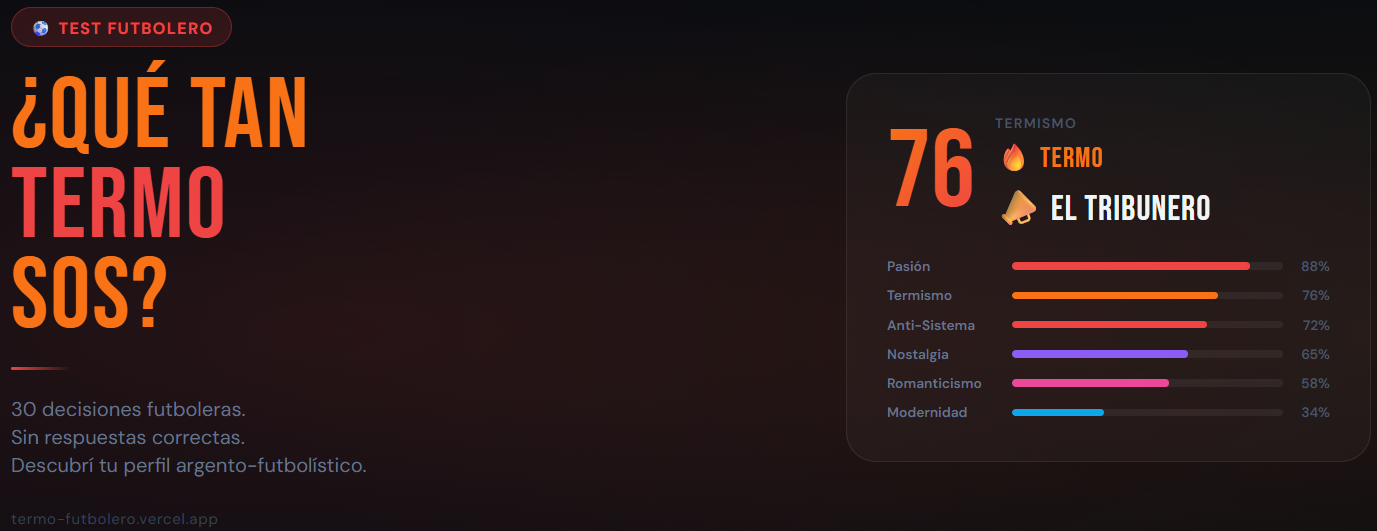
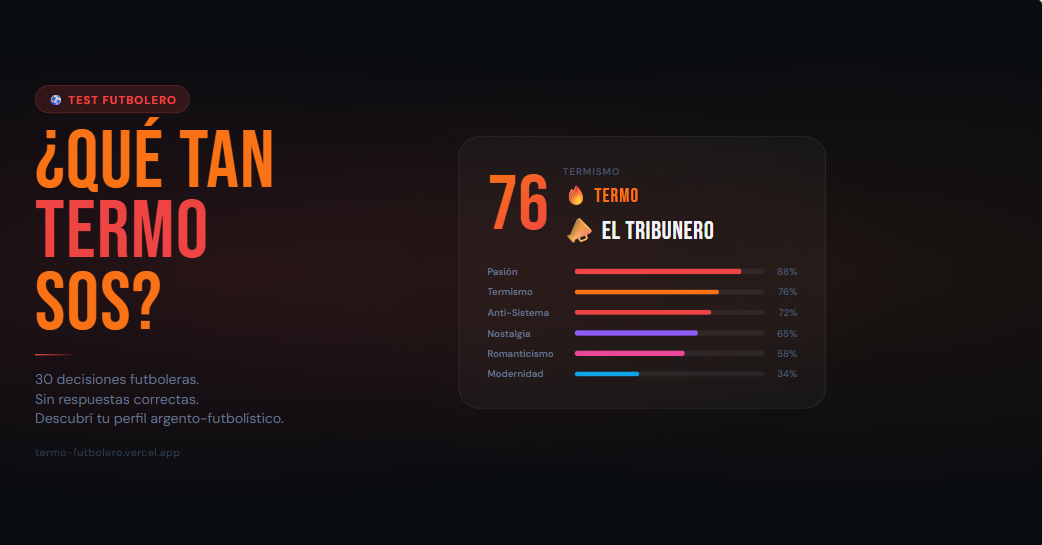
fix: og image and share text

diff --git a/app/page.tsx b/app/page.tsx
@@ -452,7 +452,7 @@ function Resultado({ respuestas, onReiniciar }: any) {
     .map(k => ({ label: k, value: normalized[k] || 0, color: (dimColors as any)[k] }));
 
   const SITE_URL = "https://termo-futbolero.vercel.app";
-  const textoCompartir = `Saqué ${termismoScore}/100 en "¿Qué tan termo sos?" 🔥\n${categoria.label} · Perfil: ${perfil.nombre}\n\n¿Me podés superar? 👇`;
+  const textoCompartir = `Saqué ${termismoScore}/100 en "¿Qué tan termo sos?" 🔥\nPerfil: ${perfil.nombre}\n\n¿Vos qué tan termo sos? 👇`;
   const textoConLink = `${textoCompartir}\n${SITE_URL}`;
   const [descargando, setDescargando] = useState(false);
 